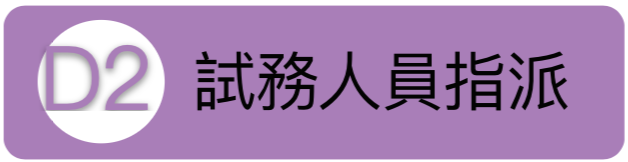
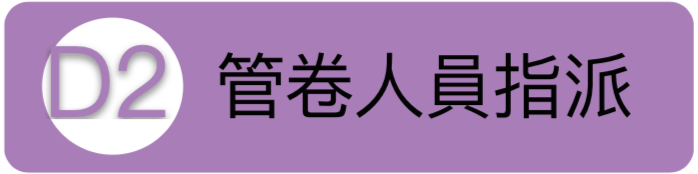
上傳圖檔

diff --git a/application/views/designated/d_2.php b/application/views/designated/d_2.php
@@ -360,7 +360,6 @@ $(function(){
     <div class="row boxs">
         <div class="col-md-12 col-sm-12 col-xs-12 ">      
             <form method="POST" enctype="multipart/form-data"  action="" id="form" class="">                                            
-            
                 <div class="col-md-3 col-sm-3 col-xs-3 cube" style="height:150px;">
                     <div class="form-group" style="width: 100%;float: left;">
                         <label for="floor" class="" style="float:left;">試務人員</label>
@@ -388,7 +387,45 @@ $(function(){
                         <label for="start" class=""  style="float:left;">節數</label>
                         <input type="text" class="form-control" id="section" readonly>
                     </div>                                  
-                </div>                                              
+                </div>   
+                <div class="col-md-3 col-sm-3 col-xs-3 cube">           
+                    <div class="form-group">
+                        <label for="field" class=""  style="float:left;">試場號起</label>
+                        <input type="hidden" class="form-control" id="sn">
+                        <select name="start" id="start" class="field form-control">
+
+                        </select>
+                    </div>     
+                    <div class="form-group">
+                        <label for="section" class=""  style="float:left;">試場號迄</label>
+                        <select name="end" id="end" class="field form-control">
+
+                        </select>
+                    </div>  
+                    <div class="form-group">
+                        <label for="start" class=""  style="float:left;">節數</label>
+                        <input type="text" class="form-control" id="section" readonly>
+                    </div>                                  
+                </div>   
+                <div class="col-md-3 col-sm-3 col-xs-3 cube">           
+                    <div class="form-group">
+                        <label for="field" class=""  style="float:left;">試場號起</label>
+                        <input type="hidden" class="form-control" id="sn">
+                        <select name="start" id="start" class="field form-control">
+
+                        </select>
+                    </div>     
+                    <div class="form-group">
+                        <label for="section" class=""  style="float:left;">試場號迄</label>
+                        <select name="end" id="end" class="field form-control">
+
+                        </select>
+                    </div>  
+                    <div class="form-group">
+                        <label for="start" class=""  style="float:left;">節數</label>
+                        <input type="text" class="form-control" id="section" readonly>
+                    </div>                                  
+                </div>                                                                              
                 <div class="col-md-6 col-sm-6 col-xs-6 " style="float:left;margin: 20px auto;">             
                     <div class="">
                         <div class="">

diff --git a/application/controllers/Designated.php b/application/controllers/Designated.php
@@ -734,9 +734,9 @@ class Designated extends CI_Controller
         $part2 = $this->mod_trial->get_trial_list('2502');
         $part3 = $this->mod_trial->get_trial_list('2503');
         $data = array(
-            'title' => '試務人員指派',
+            'title' => '管卷人員指派',
             'path' => 'designated/d_2',
-            'path_text' => ' > 指考主選單 > 試場人員指派 > 試務人員指派',
+            'path_text' => ' > 指考主選單 > 試場人員指派 > 管卷人員指派',
             'part1' => $part1,
             'part2' => $part2,
             'part3' => $part3,
@@ -833,9 +833,9 @@ class Designated extends CI_Controller
             );
         }
         $data = array(
-            'title' => '試務人員列表',
+            'title' => '管卷人員列表',
             'path' => 'designated/d_5',
-            'path_text' => ' > 指考主選單 > 試場人員指派 > 試務人員列表',
+            'path_text' => ' > 指考主選單 > 試場人員指派 > 管卷人員列表',
             'part1' => $part1,
             'part2' => $part2,
             'part3' => $part3,
@@ -958,7 +958,7 @@ class Designated extends CI_Controller
         $this->load->model('mod_exam_datetime');
         $year = $this->session->userdata('year');
         $datetime_info = $this->mod_exam_datetime->get_once($year);
-        
+
         $course = $this->mod_exam_datetime->get_course($year);
 
         $data = array(
@@ -977,7 +977,7 @@ class Designated extends CI_Controller
     //     $year = $this->session->userdata('year');
 
     //     $this->mod_exam_datetime->clean_course($year);
-        
+
     //     $this->mod_exam_datetime->setting_course($year, $_POST);
 
     //     // redirect('./designated/f_2');

diff --git a/application/models/Mod_exam_area.php b/application/models/Mod_exam_area.php
@@ -40,7 +40,6 @@ class Mod_exam_area extends CI_Model
 
     public function get_max_filed($start, $end)
     {
-        $this->db->select('subject_01,subject_02,subject_03,subject_04,subject_05,subject_06,subject_07,subject_08,subject_09,subject_10');
         $this->db->where('year', $this->session->userdata('year'));
         $this->db->where('field >=', $start);
         $this->db->where('field <=', $end);
